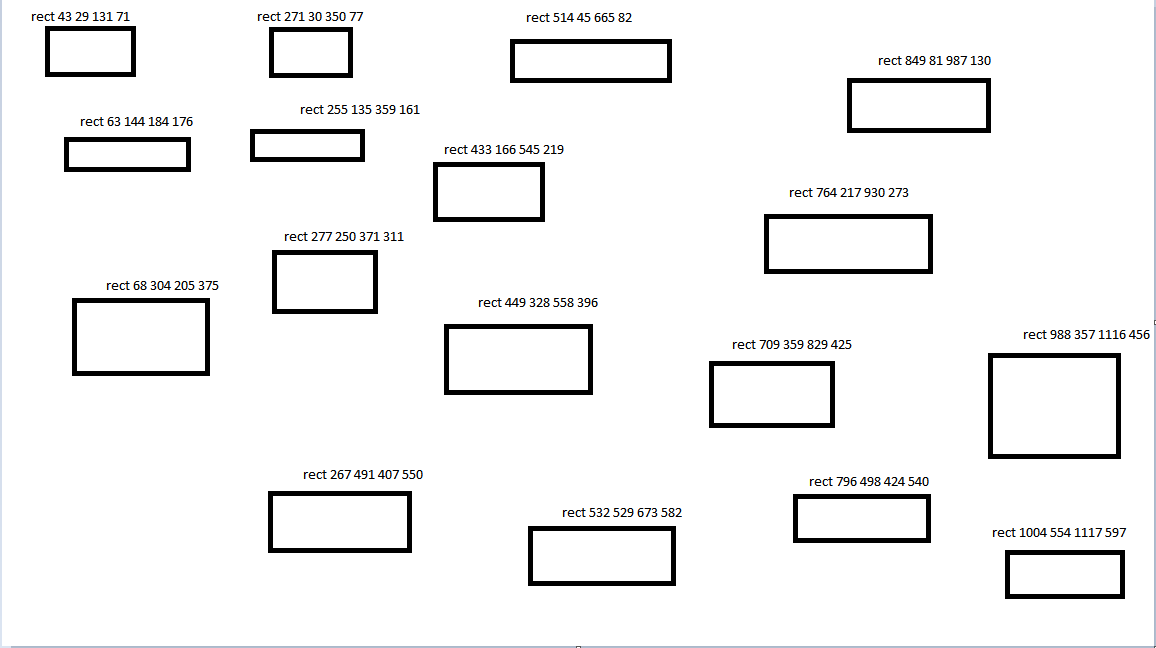
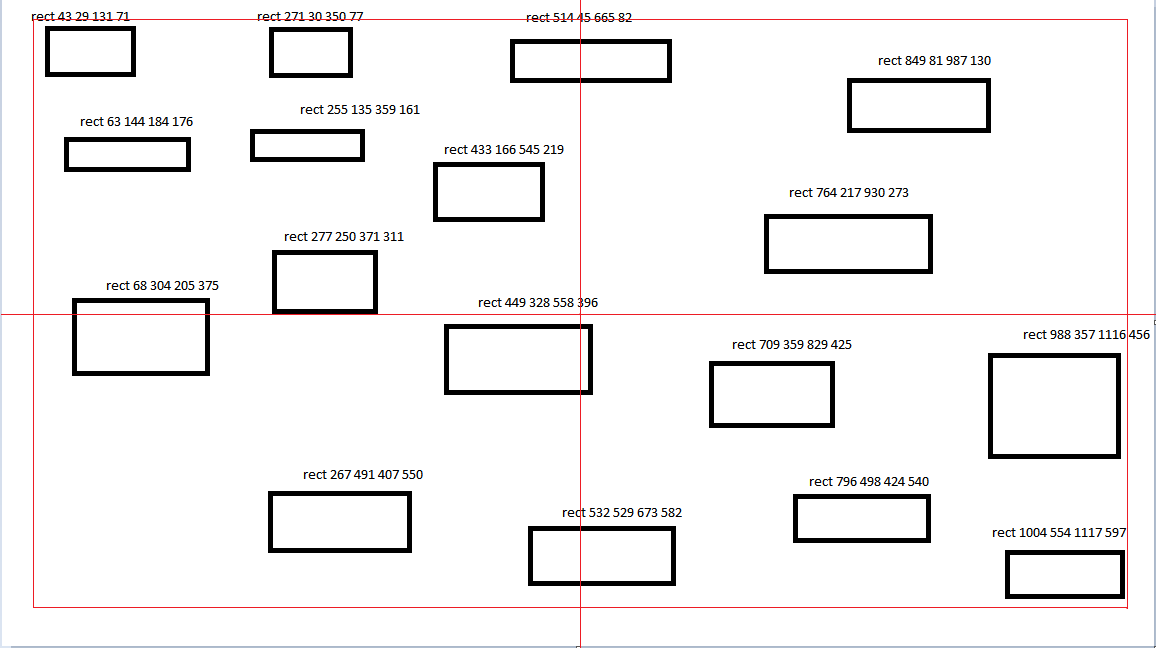
fixed surface.test (see 12th line in mainFunctions.cpp), added to surface_test.png bisectory lines and boundries at mainTrees level 0 (this will inprove future debuging process)

diff --git a/v06/mainFunctions.cpp b/v06/mainFunctions.cpp
@@ -5,21 +5,21 @@ void pointsFormLine(point * topLeft, point * bottomRight, char * line){
 	//zastepuje znaki ' ' bajtami 0 aby uzyc atoi
 	//toeretycznie mozna to zrobic "na sztywno" i takie rozwiazanie byloby najsprawniejsze
 	//lecz niewadomo czy struktura pliku wejsciowego sie nie zmieni
-	int tab[4];//lokalizacje liczb
+	int tmp[4];//lokalizacje liczb
 	int j = 0;
 	int i = 0;
 	while (line[i] != '\n'){
-		if (line[i] == ' '){
+		if (line[i] == ' '){//this is potencially unsafe EXAMPLE: "rect 277 250 371 311 " <-this space at the end of line
 			line[i] = 0;
-			tab[j] = i + 1;
+			tmp[j] = i + 1;
 			j++;
 		}
 		i++;
 	}
-	topLeft->x = atoi((line + tab[0]));
-	topLeft->y = atoi((line + tab[1]));
-	bottomRight->x = atoi((line + tab[2]));
-	bottomRight->y = atoi((line + tab[3]));
+	topLeft->x = atoi((line + tmp[0]));
+	topLeft->y = atoi((line + tmp[1]));
+	bottomRight->x = atoi((line + tmp[2]));
+	bottomRight->y = atoi((line + tmp[3]));
 }
 
 //okreslanie rozmiaru przestrzeni
